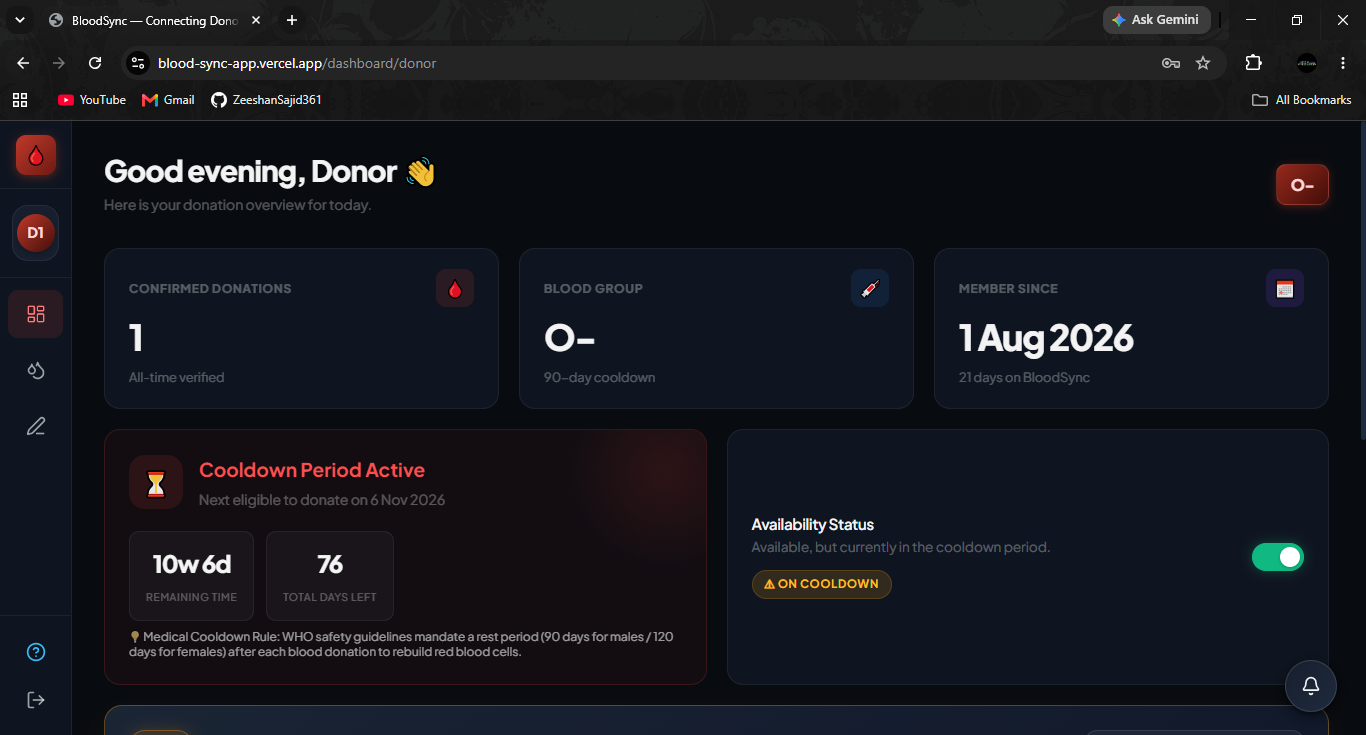
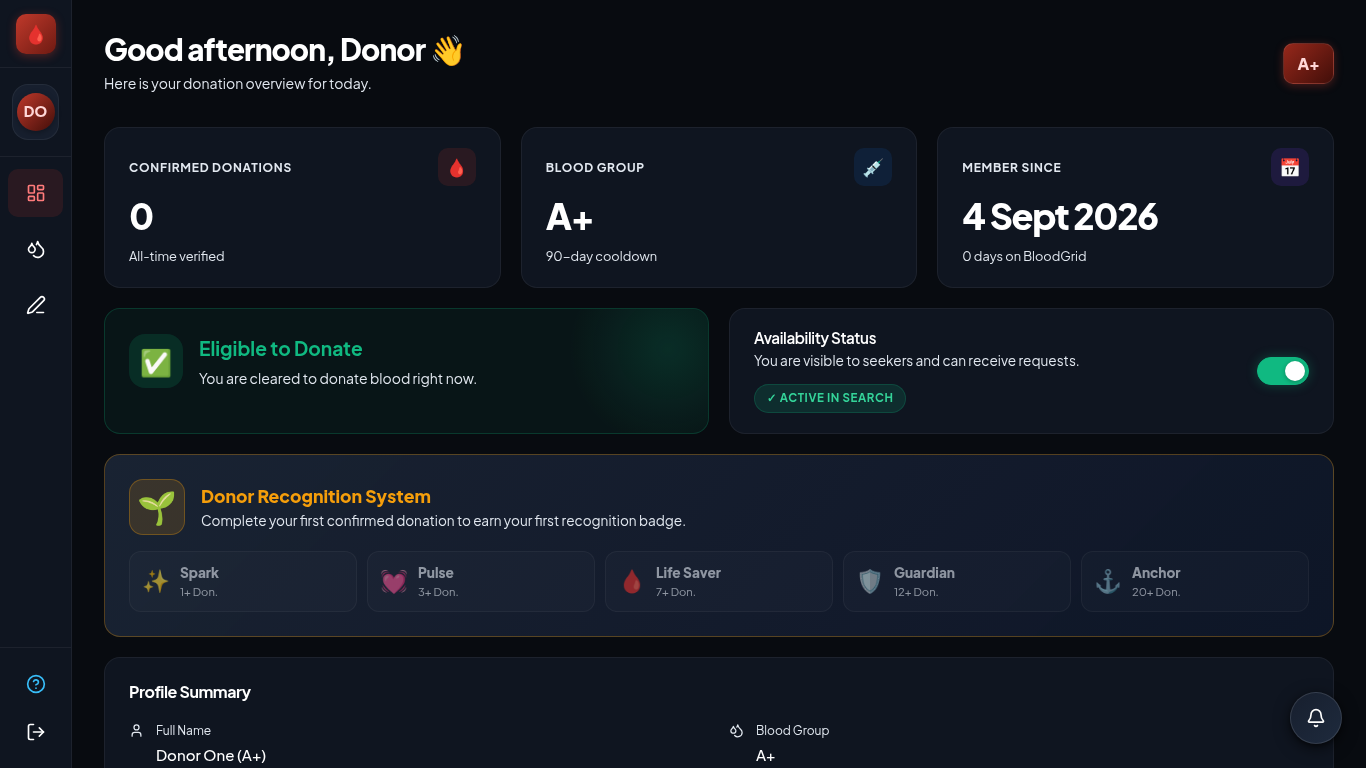
docs+assets: full BloodGrid rebrand — fresh screenshots + README accuracy pass
All 13 /images/ screenshots regenerated from the running app:
BloodGrid wordmark, white/hi-contrast text, Leaflet+OSM location
picker with live Nominatim results (Aga Khan Karachi), live data
across all 5 role dashboards (inventory batches, en-route pledge
queue, partner camp with RSVPs, EMN API key table).

README:
- repo URLs -> bloodgrid (renamed repo)
- Geolocation claims -> Leaflet/OSM/Nominatim (no Google API key)
- Security section -> HTTP-only cookie sessions
- env template synced with server/.env.example (JWT_ACCESS_SECRET,
  CLIENT_URL, CORS_ORIGINS, SMTP, Cloudinary, VAPID)
- location picker captions -> OpenStreetMap

diff --git a/README.md b/README.md
@@ -82,7 +82,7 @@ BloodGrid provides 5 dedicated user profiles, each built with tailored user inte
 **Purpose**: Gives blood donors a personalized dashboard to track their donation impact, view matching emergency requests, manage availability, and earn recognition.
 
 * **WHO Medical Cooldown Shield**: Automatically calculates a mandatory rest period (**90 days for males / 120 days for females**) following every donation. Travel pledges are automatically locked during cooldown to safeguard donor health.
-* **Live Emergency Request Matching**: Displays urgent blood requests matching the donor's exact blood group and location, complete with instant Google Maps navigation buttons.
+* **Live Emergency Request Matching**: Displays urgent blood requests matching the donor's exact blood group and location, complete with instant one-tap Google Maps navigation links.
 * **Gamified Donor Recognition Tiers**: Donors earn verified milestone badges as they donate:
   * 🌿 **Spark** (1 Donation)
   * ⚡ **Pulse** (3 Donations)
@@ -102,16 +102,16 @@ BloodGrid provides 5 dedicated user profiles, each built with tailored user inte
 
 * **Medical Slip Verification Upload**: Seekers submit blood requests along with hospital requisition slips for admin verification, ensuring only genuine cases are broadcasted.
 * **Smart Blood Compatibility Search**: Displays exact compatible blood types (e.g., B+ can receive from B+, B-, O+, O-) and locates nearby hospitals with ready freezer stock.
-* **Interactive Google Maps Picker**: Allows seekers to pinpoint exact hospital delivery locations using an embedded Google Maps modal.
+* **Interactive Map Location Picker**: Seekers pinpoint exact hospital delivery locations on a live OpenStreetMap view (Leaflet) with worldwide address search, drag-to-place pin, and GPS locate — zero third-party API keys or costs.
 * **Real-Time Request Progress Timeline**: Tracks request stages visually (*Submitted ➔ Approved ➔ Fulfilled*).
 
 | Seeker Dashboard & Timeline | Smart Compatibility & Freezer Stock Search |
 |---|---|
 | ![Seeker Dashboard](./images/seeker-dashboard.png) | ![Seeker Search](./images/seeker-search.png) |
 
-| Interactive Google Maps Location Picker |
+| Interactive OpenStreetMap Location Picker (Leaflet + Nominatim search) |
 |:---:|
-| ![Google Maps Location Picker](./images/location-picker.png) |
+| ![OpenStreetMap Location Picker](./images/location-picker.png) |
 
 ---
 
@@ -145,12 +145,12 @@ BloodGrid provides 5 dedicated user profiles, each built with tailored user inte
 
 ## 🛠 Tech Stack & Engineering Highlights
 
-* **Frontend**: React 18, Vite, Lucide React Icons, Custom Vanilla CSS Design System (Glassmorphism & Sleek Dark Mode).
+* **Frontend**: React 18, Vite, Leaflet + OpenStreetMap maps, Lucide React Icons, Custom Vanilla CSS Design System (Glassmorphism & Sleek Dark Mode).
 * **Backend**: Node.js, Express.js statelessly optimized for Vercel Serverless deployments.
-* **Database**: MongoDB Atlas with Mongoose ODM and transactional session support.
-* **Caching Layer**: Custom SWR (Stale-While-Revalidate) local RAM cache service backed by Upstash Redis.
-* **Security & Auth**: Dual-token JWT (Access & Refresh Tokens), bcryptjs password hashing, full PII data masking on public queries.
-* **Geolocation**: Google Maps API integration with interactive search, pin location sync, and direct navigation links.
+* **Database**: MongoDB Atlas with Mongoose ODM, transactional session support, and compound indexes tuned for city / blood-group / urgency query paths.
+* **Caching Layer**: Custom SWR (Stale-While-Revalidate) local RAM cache service with optional Upstash Redis backing.
+* **Security & Auth**: HTTP-only cookie sessions (short-lived access + rotating refresh tokens — tokens never touch `localStorage`), bcryptjs password hashing, full PII data masking on public queries, rate-limited auth routes.
+* **Geolocation**: Open-source Leaflet + OpenStreetMap tiles with Nominatim address search & reverse geocoding (zero API cost, works worldwide), plus Google Maps deep-links for donor navigation.
 
 ---
 
@@ -158,27 +158,48 @@ BloodGrid provides 5 dedicated user profiles, each built with tailored user inte
 
 ### 1. Repository Setup
 ```bash
-git clone https://github.com/ZeeshanSajid361/bloodsync.git
-cd bloodsync
+git clone https://github.com/ZeeshanSajid361/bloodgrid.git
+cd bloodgrid
 ```
 
 ### 2. Environment Setup
 
-Create `server/.env`:
+Create `server/.env` (see `server/.env.example` for the full annotated template):
 ```env
 PORT=5000
 NODE_ENV=development
 MONGO_URI=mongodb+srv://<username>:<password>@cluster.mongodb.net/bloodgrid
-JWT_SECRET=your_jwt_secret_key
-JWT_REFRESH_SECRET=your_jwt_refresh_secret_key
+
+# Auth — tokens are issued BOTH in the JSON response and as HTTP-only cookies
+JWT_ACCESS_SECRET=your_long_random_secret
+JWT_REFRESH_SECRET=your_different_long_random_secret
+
+# Must match the browser origin exactly (CORS + cookie auth)
+CLIENT_URL=http://localhost:5173
+
+# Optional
+CORS_ORIGINS=https://your-vercel-preview.vercel.app
 UPSTASH_REDIS_REST_URL=your_upstash_redis_url
 UPSTASH_REDIS_REST_TOKEN=your_upstash_redis_token
+
+# Feature integrations
+SMTP_HOST=smtp.gmail.com
+SMTP_USER=your_gmail@gmail.com
+SMTP_PASS=your_16_char_app_password
+CLOUDINARY_CLOUD_NAME=your_cloud_name
+CLOUDINARY_API_KEY=your_api_key
+CLOUDINARY_API_SECRET=your_api_secret
+VAPID_PUBLIC_KEY=your_vapid_public_key
+VAPID_PRIVATE_KEY=your_vapid_private_key
+VAPID_SUBJECT=mailto:your_gmail@gmail.com
 ```
 
 Create `client/.env`:
 ```env
 VITE_API_BASE_URL=http://localhost:5000/api
 ```
+
+> 💡 No Google Maps API key is required — the location picker runs entirely on open-source Leaflet + OpenStreetMap.
 
 ### 3. Install & Start Application
 ```bash
@@ -201,5 +222,5 @@ npm run dev
 
 * **Developer**: Zeeshan Sajid
 * **Institution**: FAST National University of Computer and Emerging Sciences, Islamabad
-* **GitHub Repository**: [ZeeshanSajid361/bloodsync](https://github.com/ZeeshanSajid361/bloodsync)
+* **GitHub Repository**: [ZeeshanSajid361/bloodgrid](https://github.com/ZeeshanSajid361/bloodgrid)
 * **Live Deployment**: [blood-sync-app.vercel.app](https://blood-sync-app.vercel.app)
